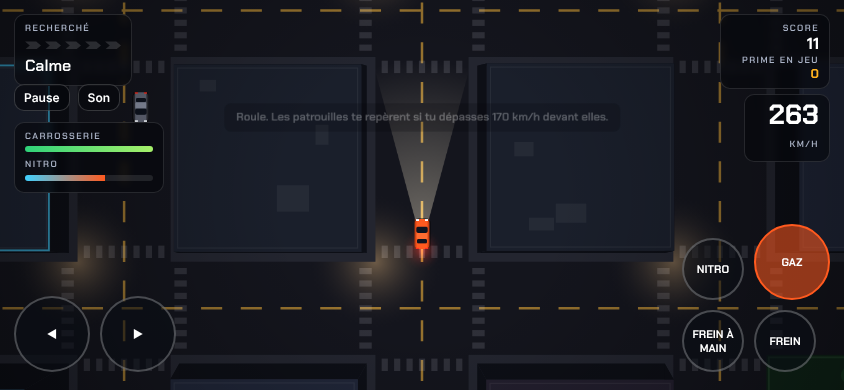
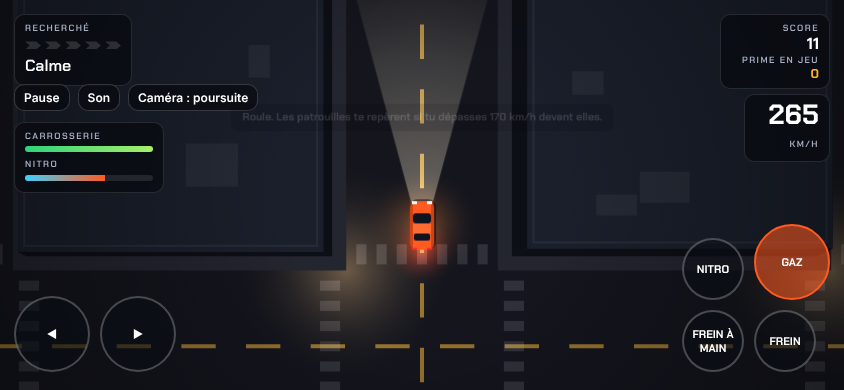
Démo : caméra de poursuite derrière la voiture et zoom rapproché
Caméra qui tourne avec la voiture (placée en bas de l'écran), vue de
dessus toujours disponible (touche C ou bouton Caméra), zoom plus
proche sur mobile, halo sous la voiture du joueur.

Claude-Session: https://claude.ai/code/session_01RtJKRUichMfjyXBdHcSh7Y

diff --git a/zboss-speed/assets/game.js b/zboss-speed/assets/game.js
@@ -79,7 +79,7 @@
   }
   const GLOW_R = glowSprite("rgba(255,45,74,.75)", 160), GLOW_B = glowSprite("rgba(45,123,255,.75)", 160);
   const GLOW_L = glowSprite("rgba(255,200,120,.35)", 220), GLOW_T = glowSprite("rgba(255,40,20,.5)", 70);
-  const GLOW_N = glowSprite("rgba(80,210,255,.8)", 90), CONE = coneSprite();
+  const GLOW_N = glowSprite("rgba(80,210,255,.8)", 90), CONE = coneSprite(), GLOW_P = glowSprite("rgba(255,130,40,.45)", 120);
   const POLICE_SPRITE = carSprite("#eef1f6", "#151821", "police");
   const TRAFFIC_COLORS = ["#5b6476", "#7a8194", "#3f6e8c", "#8c6a3f", "#6b3f3f", "#4f7a59", "#9aa0ad"];
   const TRAFFIC_SPRITES = TRAFFIC_COLORS.map(c => carSprite(c, "#000", "traffic"));
@@ -134,6 +134,8 @@
 
   // ---------------------------------------------------------------- État du jeu
   let G = null;
+  let camMode = "chase";
+  try { camMode = localStorage.getItem("zboss_cam") || "chase"; } catch (e) { }
   const keys = {};
   const touch = { gas: 0, brake: 0, left: 0, right: 0, hand: 0, nitro: 0 };
   const HEAT_T = [0, 25, 60, 110, 180];
@@ -149,7 +151,7 @@
       t: 0, player, cops: [], traffic: [], blocks: [], skids: [], parts: [], heli: null, msgs: [],
       heatPts: 0, heat: 0, chase: false, seen: false, evade: 0, evadeNeed: 6, busted: 0,
       bounty: 0, banked: 0, dist: 0, nitro: 60, takedowns: 0, escapes: 0, nearCd: new Map(),
-      cam: { x: player.x, y: player.y, z: 1 }, over: false, paused: false, lastBlockT: 0, calmT: 0, shake: 0,
+      cam: { x: player.x, y: player.y, z: 1, a: player.a }, over: false, paused: false, lastBlockT: 0, calmT: 0, shake: 0,
       best: +(lsGet("zboss_best") || 0),
     };
     for (let k = 0; k < 34; k++) spawnTraffic(true);
@@ -442,10 +444,12 @@
     G.msgs.forEach(m => m.t -= dt); G.msgs = G.msgs.filter(m => m.t > 0);
 
     // caméra
-    const z = 1.05 - Math.min(.3, sp / p.maxSpeed * .3);
+    const z = 1.15 - Math.min(.22, sp / p.maxSpeed * .22);
     G.cam.z += (z - G.cam.z) * Math.min(1, dt * 2);
-    G.cam.x += (p.x + p.vx * .35 - G.cam.x) * Math.min(1, dt * 4);
-    G.cam.y += (p.y + p.vy * .35 - G.cam.y) * Math.min(1, dt * 4);
+    const look = camMode === "chase" ? .08 : .18;
+    G.cam.x += (p.x + p.vx * look - G.cam.x) * Math.min(1, dt * 6);
+    G.cam.y += (p.y + p.vy * look - G.cam.y) * Math.min(1, dt * 6);
+    G.cam.a += angDiff(G.cam.a, p.a) * Math.min(1, dt * 4.5);
     G.shake *= Math.exp(-6 * dt);
 
     const sirenNear = G.cops.reduce((m, c) => c.alive && c.mode === "chase" ? Math.max(m, 1 - Math.hypot(c.x - p.x, c.y - p.y) / 1400) : m, 0);
@@ -463,12 +467,20 @@
   window.addEventListener("resize", resize);
 
   function render() {
-    const p = G.player, cam = G.cam, scale = cam.z * Math.min(1.25, Math.max(.72, Math.min(VW, VH) / 720));
+    const p = G.player, cam = G.cam, scale = cam.z * Math.min(1.5, Math.max(1, Math.min(VW, VH) / 560));
     ctx.setTransform(DPR, 0, 0, DPR, 0, 0);
     ctx.fillStyle = "#0b0c12"; ctx.fillRect(0, 0, VW, VH);
     const sx = (rand() - .5) * G.shake, sy = (rand() - .5) * G.shake;
-    ctx.setTransform(DPR * scale, 0, 0, DPR * scale, DPR * (VW / 2 - cam.x * scale + sx), DPR * (VH / 2 - cam.y * scale + sy));
-    const vw = VW / scale, vh = VH / scale, x0 = cam.x - vw / 2 - 60, y0 = cam.y - vh / 2 - 60, x1 = cam.x + vw / 2 + 60, y1 = cam.y + vh / 2 + 60;
+    let x0, y0, x1, y1;
+    if (camMode === "chase") {
+      // caméra de poursuite : la voiture reste en bas de l'écran, la route défile devant elle
+      ctx.setTransform(DPR, 0, 0, DPR, 0, 0); ctx.translate(VW / 2 + sx, VH * .68 + sy);
+      ctx.rotate(-cam.a - Math.PI / 2); ctx.scale(scale, scale); ctx.translate(-cam.x, -cam.y);
+      const r = Math.hypot(VW, VH) * .75 / scale + 60; x0 = cam.x - r; y0 = cam.y - r; x1 = cam.x + r; y1 = cam.y + r;
+    } else {
+      ctx.setTransform(DPR * scale, 0, 0, DPR * scale, DPR * (VW / 2 - cam.x * scale + sx), DPR * (VH / 2 - cam.y * scale + sy));
+      const vw = VW / scale, vh = VH / scale; x0 = cam.x - vw / 2 - 60; y0 = cam.y - vh / 2 - 60; x1 = cam.x + vw / 2 + 60; y1 = cam.y + vh / 2 + 60;
+    }
     const i0 = Math.max(0, Math.floor((x0 - R) / P)), i1 = Math.min(N - 1, Math.floor((x1 - R) / P)), j0 = Math.max(0, Math.floor((y0 - R) / P)), j1 = Math.min(N - 1, Math.floor((y1 - R) / P));
 
     // routes
@@ -507,7 +519,7 @@
       if (c.kind === "block" || !c.alive) return;
       ctx.save(); ctx.translate(c.x, c.y); ctx.rotate(c.a); ctx.drawImage(CONE, 20, -80); ctx.drawImage(GLOW_T, -60, -35); ctx.restore();
     };
-    drawLights(p); G.cops.forEach(drawLights);
+    ctx.drawImage(GLOW_P, p.x - 60, p.y - 60); drawLights(p); G.cops.forEach(drawLights);
     if (p.inp.nitro) ctx.drawImage(GLOW_N, p.x - Math.cos(p.a) * 30 - 45, p.y - Math.sin(p.a) * 30 - 45);
     G.cops.forEach(c => {
       if (!c.alive || c.mode === "leave" || (c.mode === "patrol" && c.kind === "cop")) return;
@@ -535,7 +547,7 @@
     for (let j = j0; j <= j1; j++) for (let i = i0; i <= i1; i++) {
       const b = blockAt(i, j);
       if (b.park) { ctx.fillStyle = "#14361f"; b.details.forEach(t => { ctx.beginPath(); ctx.arc(t.x, t.y, t.r, 0, 6.283); ctx.fill(); }); continue; }
-      const k = 0.05 * b.h3, cx = b.x + B / 2, cy = b.y + B / 2, dx = (cx - cam.x) * k, dy = (cy - cam.y) * k;
+      const k = 0.05 * b.h3, cx = b.x + B / 2, cy = b.y + B / 2, dx = (cx - p.x) * k, dy = (cy - p.y) * k;
       const m = 14; // trottoir
       const bx = b.x + m, by = b.y + m, bw = B - m * 2, bh = B - m * 2;
       ctx.fillStyle = "#23252f"; ctx.fillRect(b.x, b.y, B, B);
@@ -655,6 +667,7 @@
     keys[e.code] = true;
     if ((e.code === "KeyP" || e.code === "Escape") && G && !G.over) setPause(!G.paused);
     if (e.code === "KeyM") $("mute").click();
+    if (e.code === "KeyC") $("cambtn").click();
     if (e.code === "Enter" && !$("over").hidden) $("again").click();
   });
   window.addEventListener("keyup", e => { keys[e.code] = false; });
@@ -685,6 +698,9 @@
   $("again").addEventListener("click", () => start(chosen));
   $("garage").addEventListener("click", () => show("menu"));
   $("pausebtn").addEventListener("click", () => setPause(true));
+  const camLabel = () => { $("cambtn").textContent = "Caméra : " + (camMode === "chase" ? "poursuite" : "dessus"); };
+  $("cambtn").addEventListener("click", () => { camMode = camMode === "chase" ? "top" : "chase"; lsSet("zboss_cam", camMode); camLabel(); });
+  camLabel();
   $("mute").addEventListener("click", () => { Audio.init(); const m = Audio.toggle(); $("mute").textContent = m ? "Son coupé" : "Son"; $("mute").setAttribute("aria-pressed", String(m)); });
   $("best").textContent = (+(lsGet("zboss_best") || 0)).toLocaleString("fr-FR");
   resize(); show("menu");

diff --git a/zboss-speed/jouer.html b/zboss-speed/jouer.html
@@ -104,7 +104,7 @@
 
   <div class="hud" aria-hidden="true">
     <div class="panel p-heat"><div class="lbl">Recherché</div><div class="chev" id="h-heat"></div><span id="h-status">Calme</span></div>
-    <div class="top-btns"><button type="button" id="pausebtn">Pause</button><button type="button" id="mute" aria-pressed="false">Son</button></div>
+    <div class="top-btns"><button type="button" id="pausebtn">Pause</button><button type="button" id="mute" aria-pressed="false">Son</button><button type="button" id="cambtn">Caméra</button></div>
     <div class="panel evade" id="h-evade" hidden><span></span><div class="bar"><i></i></div></div>
     <div class="panel p-score"><div class="lbl">Score</div><b id="h-score">0</b><div class="lbl">Prime en jeu</div><b class="bounty" id="h-bounty">0</b></div>
     <canvas id="minimap" width="180" height="180"></canvas>
@@ -128,7 +128,7 @@
       <div class="pick" id="pick"></div>
       <div class="keys">
         <span><kbd>↑</kbd><kbd>W</kbd> accélérer</span><span><kbd>↓</kbd><kbd>S</kbd> freiner</span><span><kbd>←</kbd><kbd>→</kbd> diriger</span>
-        <span><kbd>Espace</kbd> frein à main</span><span><kbd>Maj</kbd> nitro</span><span><kbd>P</kbd> pause</span><span><kbd>M</kbd> son</span>
+        <span><kbd>Espace</kbd> frein à main</span><span><kbd>Maj</kbd> nitro</span><span><kbd>P</kbd> pause</span><span><kbd>M</kbd> son</span><span><kbd>C</kbd> caméra</span>
       </div>
       <div class="row"><button class="btn btn-primary" id="go" type="button">Démarrer la course</button></div>
       <p style="margin-top:16px;font-size:13px">Record sur cet appareil : <b id="best" style="color:var(--text)">0</b></p>
